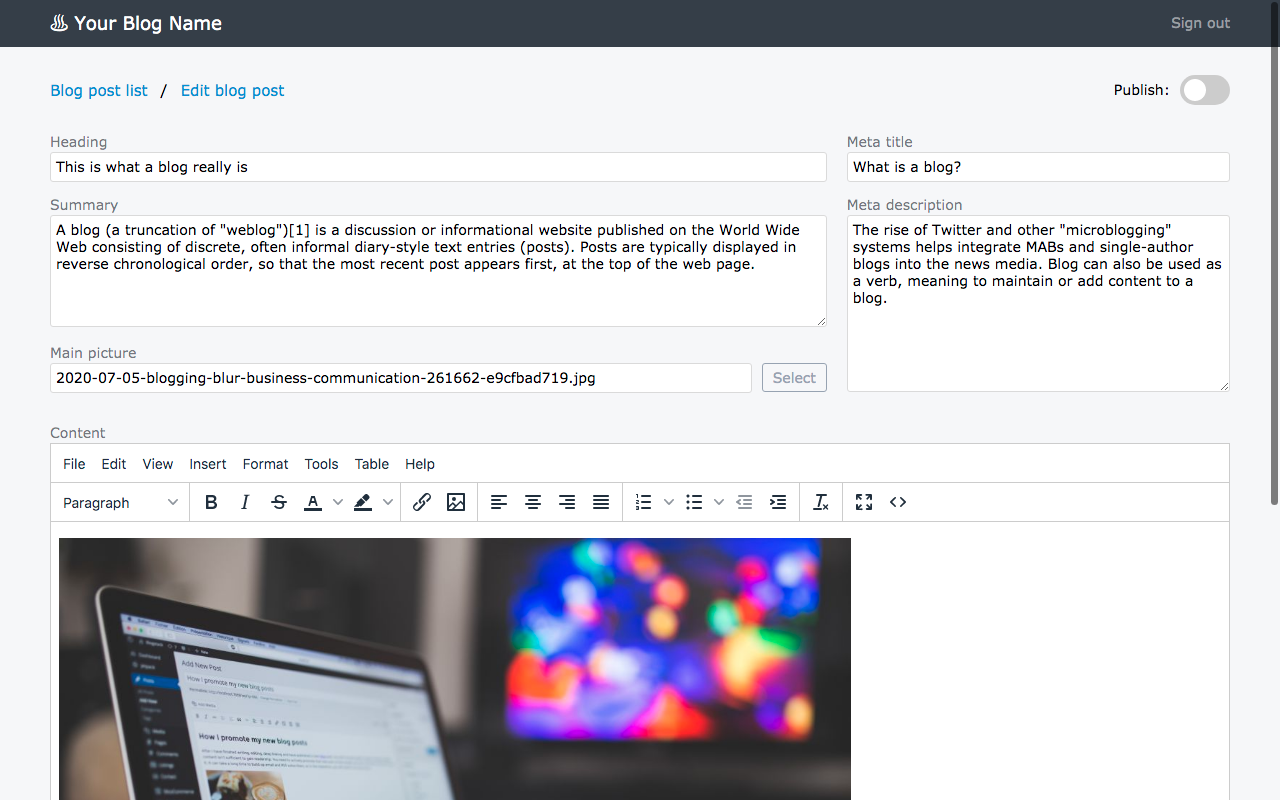
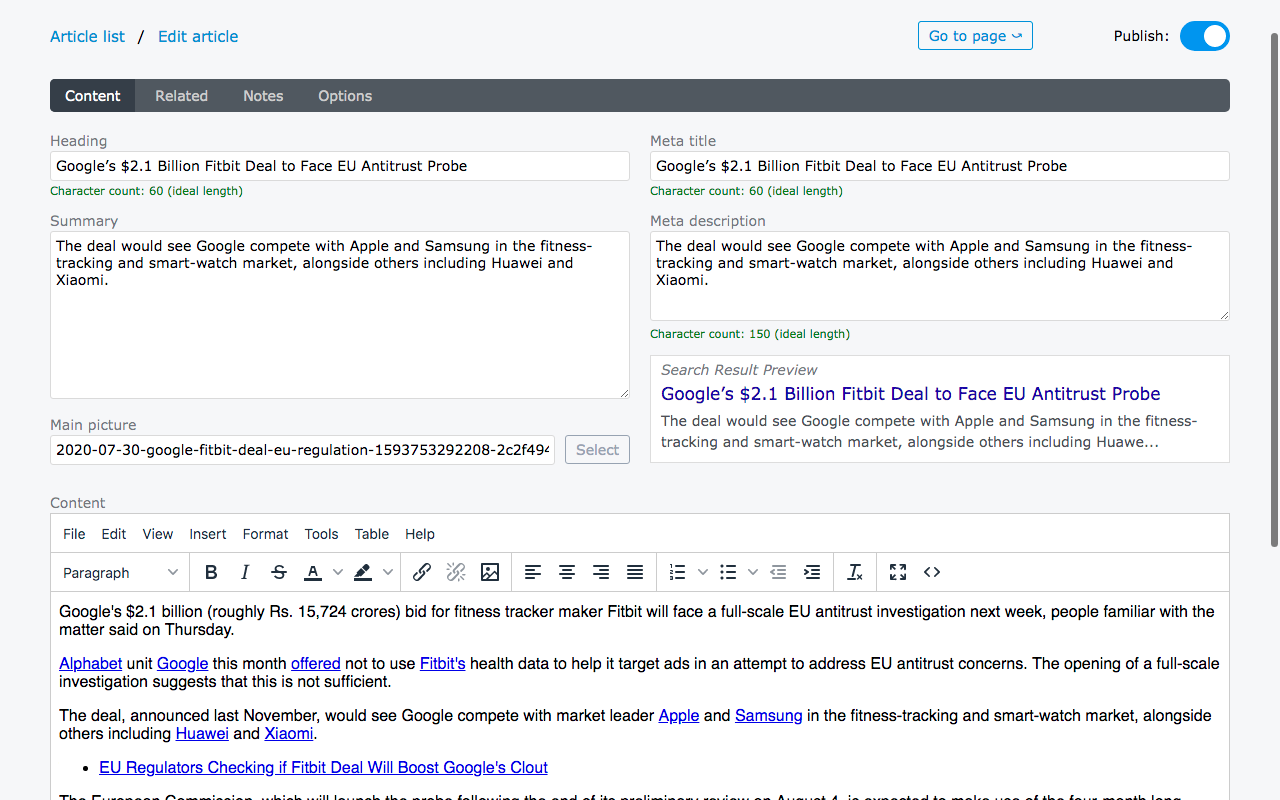
Added new images

diff --git a/README.md b/README.md
@@ -1,8 +1,16 @@
-EmbedBlog is a LAMP based blog module that can be embedded in a static PHP site. It is based on the blog codebase used on www.itefy.com/blog/
+EmbedBlog is a LAMP based blog module that can be embedded in a static PHP site. It is based on the blog codebase used on www.diyrenewable.com
+
+![Article listing](./readme_img/listing.png)
 
 ![eBlog editor](./readme_img/edit.png)
 
 ![Select image](./readme_img/select_image.png)
+
+![Related articles](./readme_img/article_related.png)
+
+![Article notes](./readme_img/article_notes.png)
+
+![Article options](./readme_img/article_options.png)
 
 ## Features
 * Dynamic, lightweight AJAX based admin interface
